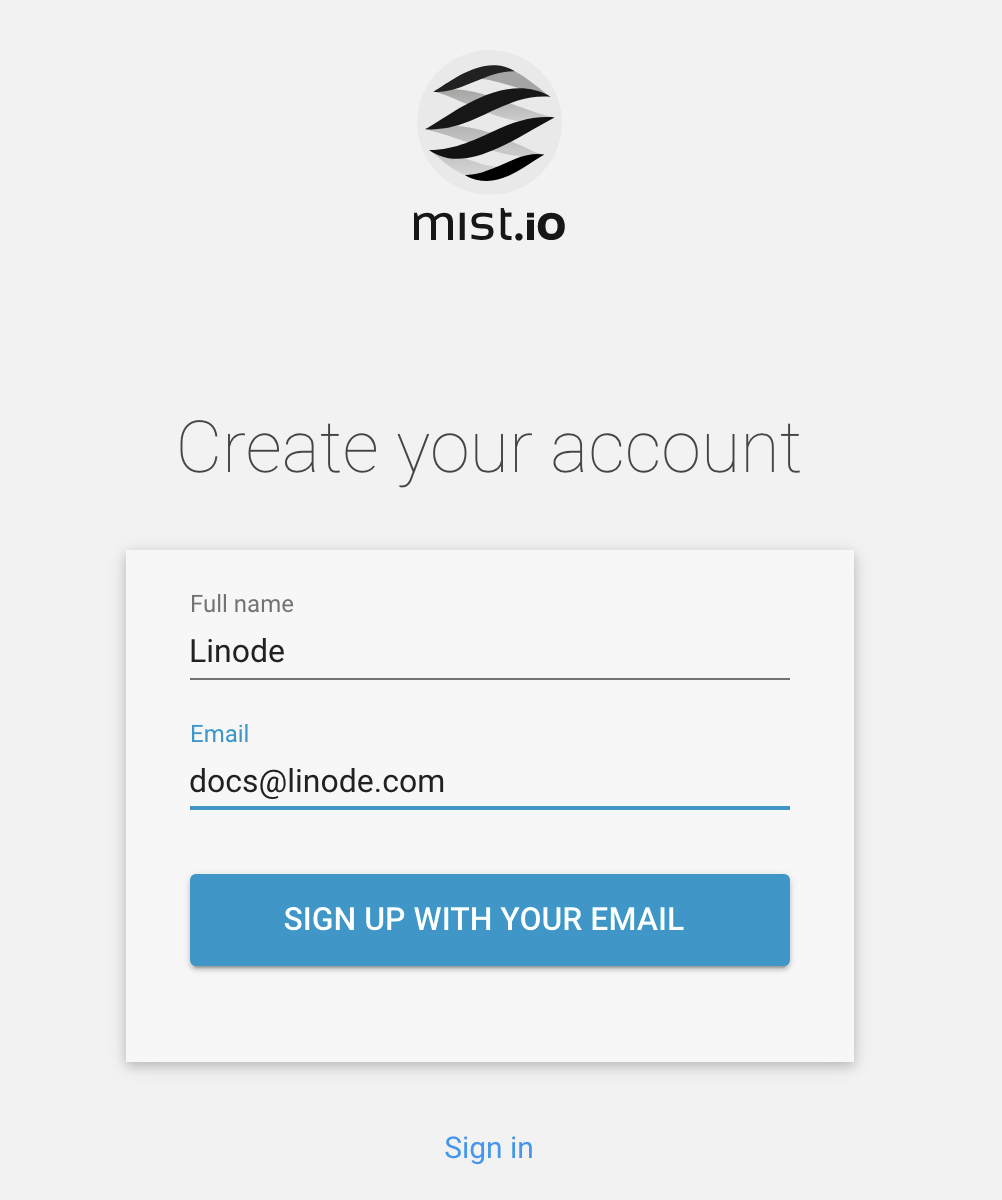
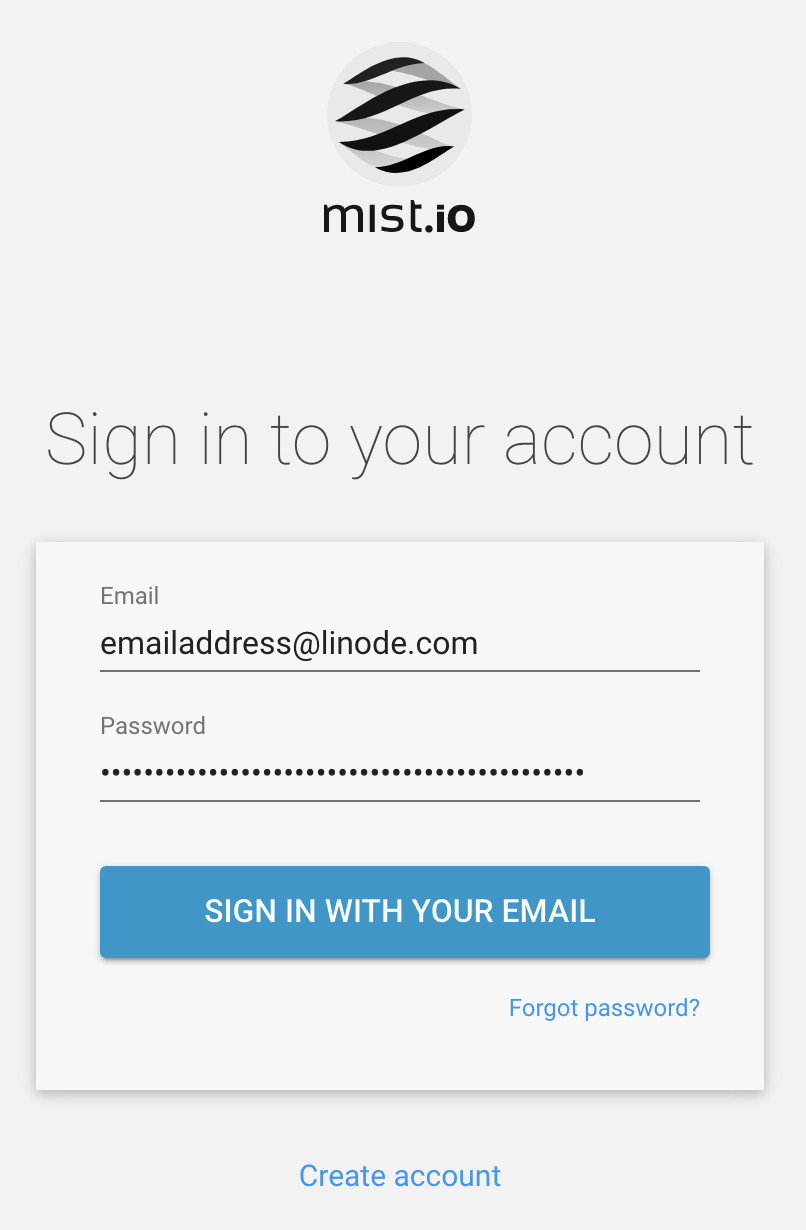
final mist.io changes

diff --git a/docs/guides/platform/marketplace/deploy-mistio-with-marketplace-apps/index.md b/docs/guides/platform/marketplace/deploy-mistio-with-marketplace-apps/index.md
@@ -29,55 +29,70 @@ Mist.io is an open-source multi-cloud management platform that can help users to
 
 {{< content deploy-marketplace-apps >}}
 
+### Mist.io Options
+
+| **Field** | **Description** |
+|:--------------|:------------|
+| **Mist admin user's email** | The e-mail address of the administrator. Used as a log-in credential similar to a username. *Required* |
+| **Mist admin user's password** | The password of the Mist.io administrator account. *Required* |
+
 ### Linode Options
 
 After providing the app-specific options, provide configurations for your Linode server:
 
 | **Configuration** | **Description** |
 |-------------------|-----------------|
-| **Select an Image** | Ubuntu 20.04 and Ubuntu 18.04 are currently the only images supported by the Mist.io Marketplace App, and are pre-selected on the Linode creation page. *Required* |
+| **Select an Image** | Debian 9 and Debian 10 are currently the only images supported by the Mist.io Marketplace App, and are pre-selected on the Linode creation page. *Required* |
 | **Region** | The region where you would like your Linode to reside. In general, it's best to choose a location that's closest to you. For more information on choosing a DC, review the [How to Choose a Data Center](/docs/platform/how-to-choose-a-data-center) guide. You can also generate [MTR reports](/docs/networking/diagnostics/diagnosing-network-issues-with-mtr/) for a deeper look at the network routes between you and each of our data centers. *Required*. |
-| **Linode Plan** | Your Linode's [hardware resources](/docs/platform/how-to-choose-a-linode-plan/#hardware-resource-definitions). A 4GB Linode is recommended for your FileCloud App. The Linode plan that you select should be appropriate for the amount of data transfer, users, storage, and other stress that may affect the performance of server.  *Required* |
+| **Linode Plan** | Your Linode's [hardware resources](/docs/platform/how-to-choose-a-linode-plan/#hardware-resource-definitions). An 8GB Linode is recommended for your Mist.io App. The Linode plan that you select should be appropriate for the amount of data transfer, users, storage, and other stress that may affect the performance of server.  *Required* |
 | **Linode Label** | The name for your Linode, which must be unique between all of the Linodes on your account. This name will be how you identify your server in the Cloud Manager’s Dashboard. *Required*. |
 | **Root Password** | The primary administrative password for your Linode instance. This password must be provided when you log in to your Linode via SSH. The password must meet the complexity strength validation requirements for a strong password. Your root password can be used to perform any action on your server, so make it long, complex, and unique. *Required* |
 
-When you've provided all required Linode Options, click on the **Create** button. **Your Mist.io app will complete installation anywhere between 3-5 minutes after your Linode has finished provisioning**.
+When you've provided all required Linode Options, click on the **Create** button. **Your Mist.io app will complete installation anywhere between 5-15 minutes after your Linode has finished provisioning**.
 
 ## Setting up the Mist.io Server
 
-Once the Mist.io server is successfully created, a few additional steps must be completed to be able to begin using the application. Enter the [public IP address](/docs/guides/find-your-linodes-ip-address/) of the Mist.io Linode into a web browser to access the application and proceed.
+Once the Mist.io server is successfully created, a few additional steps must be completed to be able to begin using the application.
 
-### Create a New Account
+### Set Mist's CORE_URI
 
-1. Click on the **Get Started** button at the center of the page.
+Before proceeding further, the CORE_URI URL must be set.
+
+1. Create an [SSH connection](https://www.linode.com/docs/guides/getting-started/#connect-to-your-linode-via-ssh) to your Linode using the [public IP address](/docs/guides/find-your-linodes-ip-address/) and the root password you had set up prior to the app creation.
+
+1.  Edit the settings file found in `~/mist/settings/settings.py` with a text editor of your choice:
+
+        sudo nano ~/mist/settings/settings.py
+
+1. Set The CORE_URI value to either your Linode's public IPv4 address or a DNS name linked to it. For more information, see the [Mist CE Documentation](https://github.com/mistio/mist-ce#configuring). The file should reflect the following once complete:
+
+    {{< output >}}
+"""User defined settings"""
+
+## Configure external url.
+CORE_URI = "http://203.0.113.0"
+
+## Verify SSL outgoing SSL connections.
+# SSL_VERIFY = True
+{{< /output >}}
+
+    For anything other than development purposes, it is strongly recommended that a [DNS name](/docs/guides/dns-manager/) with an [SSL/TLS certiicate](https://www.linode.com/docs/guides/how-to-install-certbot-on-debian-10/) is configured and installed.
+
+1. Restart the docker container for your changes to be applied:
+
+    sudo docker-compose restart
+
+### Log In to Mist.io
+
+1. Enter the URL or Domain name linked to the application.
+
+1. Click on the **Sign in** button at the top right of the page.
 
 ![Mist.io get started](get-started-mist.png)
 
-1. Enter your `Name` and `Email Address` in their respective fields, and click on the **Sign Up With Your Email** button to create an account.
+1. Enter your `Email Address` and `Password` in their respective fields to complete the log-in process.
 
 ![Mist.io Account Creation](account-creation-mist.png)
-
-1. The Mist.io application uses an internal mock mail server to retrieve all account creation emails. To receive your activation e-mail, [create an SSH connection to your Linode](https://www.linode.com/docs/guides/getting-started/#connect-to-your-linode-via-ssh) using the public IPv4 address and the root password you had set up prior to the app creation. Replace the example IP address with your Linode’s IP address:
-
-        ssh root@198.51.100.4
-
-1. Once you are connected, enter the following command to navigate the `mist` directory and search the mock mail server for your activation link:
-
-        cd mist && sudo docker-compose logs mailmock | grep -o 'http://localhost/confirm.*'
-
-1. You should see output similar to the following:
-
-  {{< output >}}
-    http://localhost/confirm?key=2e7f315678c1fcdefd29c5d5d444444c492848238a1456670ed5a59ac9c85
-{{< /output >}}
-
-Copy your own output to use in the next step.
-
-1. Replace `localhost` in the url the output provides with your Linode's public IP address, and enter the address into your web browser:
-
-        http://198.51.100.4/confirm?key=2e7f315678c1fcdefd29c5d5d004850c492848238afe44a5ce15ed5a59ac9c85
-
-1. Enter a strong password and hit **Enter** to complete the account creation process.
 
 ### Next Steps
 
